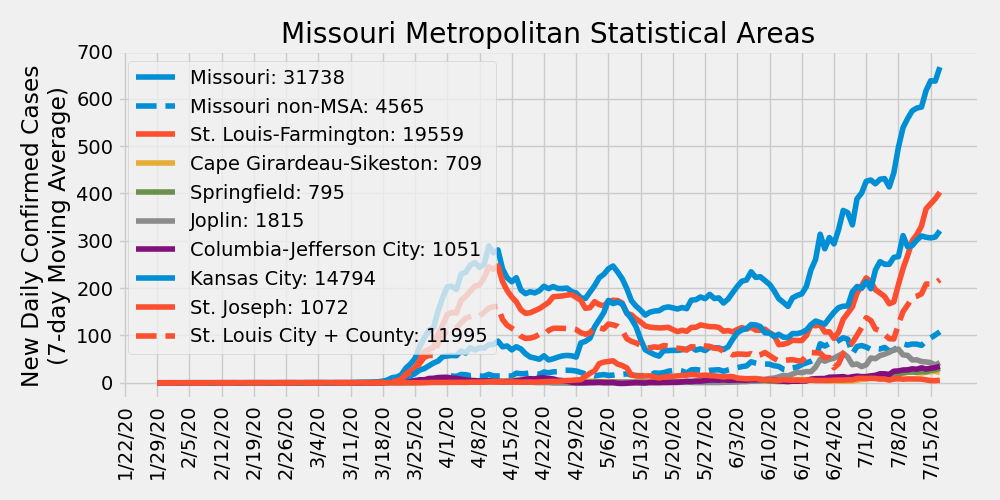
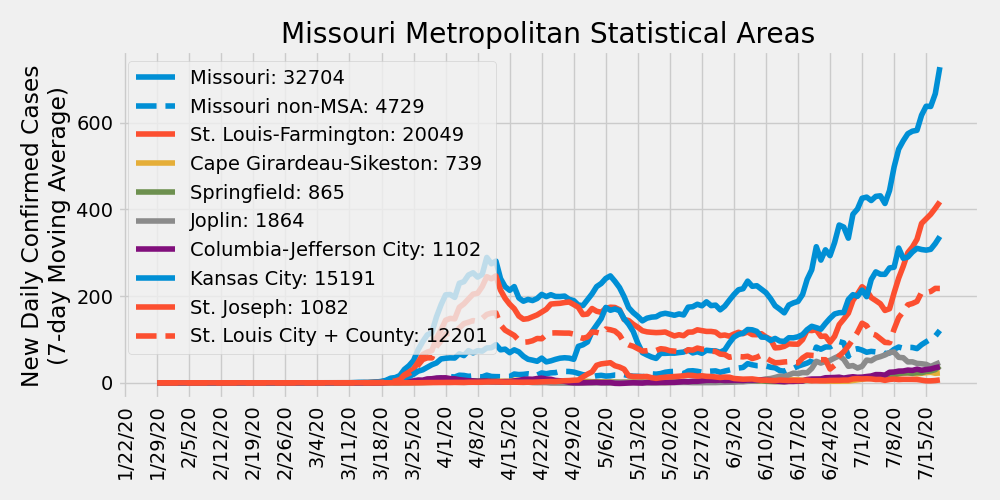
update 7/19/2020

diff --git a/ajvogt-analysis/missouri_analysis.md b/ajvogt-analysis/missouri_analysis.md
@@ -1,6 +1,6 @@
 # COVID-19 Missouri Statistics & Regional Breakdowns
 Author: Adam J. Vogt  
-Updated: 07/18/2020  
+Updated: 07/19/2020  
 Source: [COVID-19 Data Repository by the Center for Systems Science and Engineering (CSSE) at Johns Hopkins University](https://github.com/CSSEGISandData/COVID-19)  
 Source Code: `/ajvogt-analysis/mo_analysis_script.py`  
 Release Notes: [release_notes.md](https://github.com/ajvogt/COVID-19/blob/master/ajvogt-analysis/release_notes.md)
@@ -27,129 +27,129 @@ Legend shows cumulative confirmed cases
 ## Metropolitan Statistical Area (MSA) Counties
 | MSA | State | County | Total Cases | Total Deaths |
 |-----|-------|--------|---|---|
-| St. Louis-Farmington | Missouri | Lincoln | 133 | 1 |
-| St. Louis-Farmington | Missouri | Warren | 72 | 0 |
-| St. Louis-Farmington | Missouri | Franklin | 337 | 18 |
-| St. Louis-Farmington | Missouri | Jefferson | 670 | 22 |
-| St. Louis-Farmington | Missouri | St. Charles | 1581 | 79 |
-| St. Louis-Farmington | Missouri | St. Louis | 8739 | 607 |
-| St. Louis-Farmington | Missouri | St. Louis City | 3256 | 161 |
-| St. Louis-Farmington | Missouri | St. Francois | 184 | 2 |
-| St. Louis-Farmington | Illinois | Monroe | 186 | 13 |
-| St. Louis-Farmington | Illinois | St. Clair | 2564 | 148 |
-| St. Louis-Farmington | Illinois | Madison | 1413 | 71 |
-| St. Louis-Farmington | Illinois | Macoupin | 83 | 3 |
+| St. Louis-Farmington | Missouri | Lincoln | 144 | 1 |
+| St. Louis-Farmington | Missouri | Warren | 78 | 0 |
+| St. Louis-Farmington | Missouri | Franklin | 348 | 18 |
+| St. Louis-Farmington | Missouri | Jefferson | 690 | 22 |
+| St. Louis-Farmington | Missouri | St. Charles | 1673 | 79 |
+| St. Louis-Farmington | Missouri | St. Louis | 8862 | 610 |
+| St. Louis-Farmington | Missouri | St. Louis City | 3339 | 161 |
+| St. Louis-Farmington | Missouri | St. Francois | 188 | 2 |
+| St. Louis-Farmington | Illinois | Monroe | 190 | 13 |
+| St. Louis-Farmington | Illinois | St. Clair | 2650 | 149 |
+| St. Louis-Farmington | Illinois | Madison | 1457 | 71 |
+| St. Louis-Farmington | Illinois | Macoupin | 86 | 3 |
 | St. Louis-Farmington | Illinois | Jersey | 51 | 1 |
-| St. Louis-Farmington | Illinois | Clinton | 264 | 16 |
+| St. Louis-Farmington | Illinois | Clinton | 267 | 16 |
 | St. Louis-Farmington | Illinois | Calhoun | 2 | 0 |
 | St. Louis-Farmington | Illinois | Bond | 24 | 2 |
-| Cape Girardeau-Sikeston | Missouri | Cape Girardeau | 407 | 3 |
-| Cape Girardeau-Sikeston | Missouri | Bollinger | 33 | 1 |
-| Cape Girardeau-Sikeston | Illinois | Alexander | 29 | 0 |
-| Cape Girardeau-Sikeston | Missouri | Scott | 240 | 13 |
-| Springfield | Missouri | Greene | 575 | 9 |
-| Springfield | Missouri | Christian | 104 | 1 |
-| Springfield | Missouri | Webster | 67 | 1 |
-| Springfield | Missouri | Polk | 26 | 0 |
-| Springfield | Missouri | Dallas | 23 | 1 |
-| Joplin | Missouri | Jasper | 1177 | 13 |
+| Cape Girardeau-Sikeston | Missouri | Cape Girardeau | 428 | 3 |
+| Cape Girardeau-Sikeston | Missouri | Bollinger | 39 | 1 |
+| Cape Girardeau-Sikeston | Illinois | Alexander | 30 | 0 |
+| Cape Girardeau-Sikeston | Missouri | Scott | 242 | 13 |
+| Springfield | Missouri | Greene | 596 | 9 |
+| Springfield | Missouri | Christian | 113 | 1 |
+| Springfield | Missouri | Webster | 74 | 1 |
+| Springfield | Missouri | Polk | 55 | 0 |
+| Springfield | Missouri | Dallas | 27 | 1 |
+| Joplin | Missouri | Jasper | 1226 | 18 |
 | Joplin | Missouri | Newton | 638 | 2 |
-| Columbia-Jefferson City | Missouri | Howard | 11 | 0 |
-| Columbia-Jefferson City | Missouri | Boone | 701 | 2 |
-| Columbia-Jefferson City | Missouri | Cooper | 32 | 0 |
+| Columbia-Jefferson City | Missouri | Howard | 12 | 0 |
+| Columbia-Jefferson City | Missouri | Boone | 733 | 2 |
+| Columbia-Jefferson City | Missouri | Cooper | 33 | 0 |
 | Columbia-Jefferson City | Missouri | Moniteau | 71 | 2 |
-| Columbia-Jefferson City | Missouri | Cole | 143 | 2 |
+| Columbia-Jefferson City | Missouri | Cole | 158 | 2 |
 | Columbia-Jefferson City | Missouri | Callaway | 78 | 1 |
-| Columbia-Jefferson City | Missouri | Osage | 15 | 0 |
-| Kansas City | Missouri | Kansas City | 3454 | 37 |
-| Kansas City | Missouri | Jackson | 1750 | 46 |
-| Kansas City | Missouri | Clay | 607 | 13 |
-| Kansas City | Missouri | Cass | 237 | 8 |
-| Kansas City | Missouri | Platte | 192 | 6 |
-| Kansas City | Missouri | Lafayette | 108 | 2 |
-| Kansas City | Missouri | Ray | 36 | 0 |
+| Columbia-Jefferson City | Missouri | Osage | 17 | 0 |
+| Kansas City | Missouri | Kansas City | 3564 | 38 |
+| Kansas City | Missouri | Jackson | 1810 | 46 |
+| Kansas City | Missouri | Clay | 617 | 13 |
+| Kansas City | Missouri | Cass | 250 | 8 |
+| Kansas City | Missouri | Platte | 198 | 6 |
+| Kansas City | Missouri | Lafayette | 116 | 2 |
+| Kansas City | Missouri | Ray | 37 | 0 |
 | Kansas City | Missouri | Clinton | 38 | 0 |
 | Kansas City | Missouri | Bates | 17 | 1 |
-| Kansas City | Missouri | Caldwell | 17 | 1 |
-| Kansas City | Kansas | Johnson | 3564 | 95 |
-| Kansas City | Kansas | Wyandotte | 3433 | 88 |
+| Kansas City | Missouri | Caldwell | 19 | 1 |
+| Kansas City | Kansas | Johnson | 3667 | 96 |
+| Kansas City | Kansas | Wyandotte | 3517 | 88 |
 | Kansas City | Kansas | Leavenworth | 1252 | 7 |
 | Kansas City | Kansas | Miami | 69 | 0 |
 | Kansas City | Kansas | Linn | 20 | 0 |
-| St. Joseph | Missouri | Andrew | 59 | 1 |
-| St. Joseph | Missouri | Buchanan | 962 | 6 |
-| St. Joseph | Missouri | DeKalb | 20 | 0 |
+| St. Joseph | Missouri | Andrew | 60 | 1 |
+| St. Joseph | Missouri | Buchanan | 971 | 6 |
+| St. Joseph | Missouri | DeKalb | 20 | 1 |
 | St. Joseph | Kansas | Doniphan | 31 | 0 |
-| Missouri non-MSA | Missouri | Adair |  106 | 0 |
+| Missouri non-MSA | Missouri | Adair |  107 | 0 |
 | Missouri non-MSA | Missouri | Atchison |  6 | 0 |
-| Missouri non-MSA | Missouri | Audrain |  152 | 1 |
-| Missouri non-MSA | Missouri | Barry |  147 | 0 |
-| Missouri non-MSA | Missouri | Barton |  42 | 0 |
-| Missouri non-MSA | Missouri | Benton |  29 | 0 |
-| Missouri non-MSA | Missouri | Butler |  133 | 0 |
-| Missouri non-MSA | Missouri | Camden |  91 | 2 |
-| Missouri non-MSA | Missouri | Carroll |  43 | 0 |
+| Missouri non-MSA | Missouri | Audrain |  155 | 1 |
+| Missouri non-MSA | Missouri | Barry |  154 | 0 |
+| Missouri non-MSA | Missouri | Barton |  45 | 0 |
+| Missouri non-MSA | Missouri | Benton |  32 | 0 |
+| Missouri non-MSA | Missouri | Butler |  142 | 0 |
+| Missouri non-MSA | Missouri | Camden |  100 | 2 |
+| Missouri non-MSA | Missouri | Carroll |  47 | 0 |
 | Missouri non-MSA | Missouri | Carter |  8 | 1 |
-| Missouri non-MSA | Missouri | Cedar |  20 | 0 |
-| Missouri non-MSA | Missouri | Chariton |  11 | 0 |
+| Missouri non-MSA | Missouri | Cedar |  25 | 0 |
+| Missouri non-MSA | Missouri | Chariton |  13 | 0 |
 | Missouri non-MSA | Missouri | Clark |  2 | 0 |
-| Missouri non-MSA | Missouri | Crawford |  27 | 0 |
-| Missouri non-MSA | Missouri | Dade |  3 | 0 |
+| Missouri non-MSA | Missouri | Crawford |  28 | 0 |
+| Missouri non-MSA | Missouri | Dade |  4 | 0 |
 | Missouri non-MSA | Missouri | Daviess |  13 | 0 |
-| Missouri non-MSA | Missouri | Dent |  9 | 0 |
-| Missouri non-MSA | Missouri | Douglas |  22 | 0 |
+| Missouri non-MSA | Missouri | Dent |  10 | 0 |
+| Missouri non-MSA | Missouri | Douglas |  22 | 1 |
 | Missouri non-MSA | Missouri | Dunklin |  146 | 3 |
 | Missouri non-MSA | Missouri | Gasconade |  18 | 0 |
-| Missouri non-MSA | Missouri | Gentry |  69 | 9 |
+| Missouri non-MSA | Missouri | Gentry |  70 | 9 |
 | Missouri non-MSA | Missouri | Grundy |  22 | 1 |
-| Missouri non-MSA | Missouri | Harrison |  34 | 1 |
-| Missouri non-MSA | Missouri | Henry |  35 | 3 |
+| Missouri non-MSA | Missouri | Harrison |  35 | 1 |
+| Missouri non-MSA | Missouri | Henry |  40 | 3 |
 | Missouri non-MSA | Missouri | Hickory |  2 | 0 |
 | Missouri non-MSA | Missouri | Holt |  1 | 0 |
-| Missouri non-MSA | Missouri | Howell |  58 | 0 |
+| Missouri non-MSA | Missouri | Howell |  62 | 0 |
 | Missouri non-MSA | Missouri | Iron |  3 | 0 |
 | Missouri non-MSA | Missouri | Knox |  2 | 0 |
-| Missouri non-MSA | Missouri | Laclede |  128 | 1 |
-| Missouri non-MSA | Missouri | Lawrence |  86 | 2 |
+| Missouri non-MSA | Missouri | Laclede |  134 | 1 |
+| Missouri non-MSA | Missouri | Lawrence |  87 | 2 |
 | Missouri non-MSA | Missouri | Lewis |  10 | 1 |
-| Missouri non-MSA | Missouri | Livingston |  28 | 0 |
-| Missouri non-MSA | Missouri | McDonald |  782 | 1 |
-| Missouri non-MSA | Missouri | Macon |  35 | 0 |
+| Missouri non-MSA | Missouri | Livingston |  30 | 0 |
+| Missouri non-MSA | Missouri | McDonald |  800 | 1 |
+| Missouri non-MSA | Missouri | Macon |  36 | 0 |
 | Missouri non-MSA | Missouri | Maries |  6 | 0 |
-| Missouri non-MSA | Missouri | Marion |  41 | 0 |
-| Missouri non-MSA | Missouri | Mercer |  7 | 0 |
-| Missouri non-MSA | Missouri | Miller |  35 | 0 |
-| Missouri non-MSA | Missouri | Mississippi |  99 | 0 |
+| Missouri non-MSA | Missouri | Marion |  45 | 0 |
+| Missouri non-MSA | Missouri | Mercer |  8 | 0 |
+| Missouri non-MSA | Missouri | Miller |  41 | 0 |
+| Missouri non-MSA | Missouri | Mississippi |  100 | 0 |
 | Missouri non-MSA | Missouri | Montgomery |  23 | 0 |
-| Missouri non-MSA | Missouri | Morgan |  28 | 0 |
-| Missouri non-MSA | Missouri | New Madrid |  96 | 1 |
-| Missouri non-MSA | Missouri | Nodaway |  30 | 0 |
+| Missouri non-MSA | Missouri | Morgan |  29 | 0 |
+| Missouri non-MSA | Missouri | New Madrid |  98 | 1 |
+| Missouri non-MSA | Missouri | Nodaway |  29 | 0 |
 | Missouri non-MSA | Missouri | Oregon |  10 | 0 |
 | Missouri non-MSA | Missouri | Ozark |  2 | 0 |
-| Missouri non-MSA | Missouri | Pemiscot |  153 | 6 |
+| Missouri non-MSA | Missouri | Pemiscot |  160 | 6 |
 | Missouri non-MSA | Missouri | Perry |  178 | 3 |
-| Missouri non-MSA | Missouri | Pettis |  187 | 2 |
+| Missouri non-MSA | Missouri | Pettis |  194 | 2 |
 | Missouri non-MSA | Missouri | Phelps |  53 | 0 |
 | Missouri non-MSA | Missouri | Pike |  46 | 1 |
-| Missouri non-MSA | Missouri | Pulaski |  146 | 1 |
-| Missouri non-MSA | Missouri | Putnam |  3 | 0 |
+| Missouri non-MSA | Missouri | Pulaski |  155 | 1 |
+| Missouri non-MSA | Missouri | Putnam |  4 | 0 |
 | Missouri non-MSA | Missouri | Ralls |  10 | 0 |
 | Missouri non-MSA | Missouri | Randolph |  21 | 1 |
-| Missouri non-MSA | Missouri | Reynolds |  11 | 0 |
-| Missouri non-MSA | Missouri | Ripley |  23 | 0 |
-| Missouri non-MSA | Missouri | Ste. Genevieve |  26 | 1 |
-| Missouri non-MSA | Missouri | Saline |  328 | 5 |
+| Missouri non-MSA | Missouri | Reynolds |  10 | 0 |
+| Missouri non-MSA | Missouri | Ripley |  24 | 0 |
+| Missouri non-MSA | Missouri | Ste. Genevieve |  27 | 1 |
+| Missouri non-MSA | Missouri | Saline |  343 | 5 |
 | Missouri non-MSA | Missouri | Schuyler |  5 | 0 |
 | Missouri non-MSA | Missouri | Scotland |  11 | 1 |
-| Missouri non-MSA | Missouri | Shannon |  29 | 0 |
+| Missouri non-MSA | Missouri | Shannon |  30 | 0 |
 | Missouri non-MSA | Missouri | Shelby |  6 | 0 |
-| Missouri non-MSA | Missouri | Stoddard |  165 | 9 |
-| Missouri non-MSA | Missouri | Stone |  36 | 0 |
+| Missouri non-MSA | Missouri | Stoddard |  169 | 9 |
+| Missouri non-MSA | Missouri | Stone |  37 | 0 |
 | Missouri non-MSA | Missouri | Sullivan |  122 | 0 |
-| Missouri non-MSA | Missouri | Taney |  155 | 3 |
+| Missouri non-MSA | Missouri | Taney |  166 | 3 |
 | Missouri non-MSA | Missouri | Texas |  16 | 0 |
-| Missouri non-MSA | Missouri | Vernon |  38 | 0 |
+| Missouri non-MSA | Missouri | Vernon |  40 | 0 |
 | Missouri non-MSA | Missouri | Washington |  39 | 1 |
 | Missouri non-MSA | Missouri | Wayne |  5 | 0 |
 | Missouri non-MSA | Missouri | Worth |  4 | 0 |
-| Missouri non-MSA | Missouri | Wright |  49 | 0 |
+| Missouri non-MSA | Missouri | Wright |  52 | 0 |
